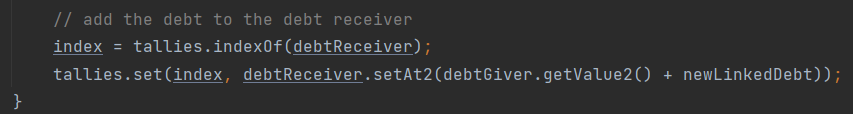
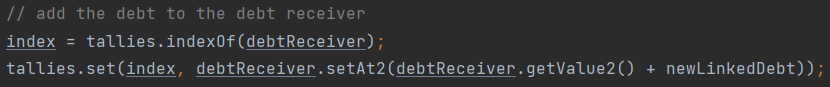
Debug Complete

diff --git a/MoneyTracker/src/test/java/calculator/IntegrationTest_Tallies.java b/MoneyTracker/src/test/java/calculator/IntegrationTest_Tallies.java
@@ -64,72 +64,7 @@ public class IntegrationTest_Tallies {
     }
 
     @Test
-    public void testTreeTallies() {
-        //Create 3 persons
-        List<IPerson> personList = createPersons(3);
-
-        //Add to database
-        PersonController personController = new PersonController(PersonDB.getInstance());
-        personList.forEach(personController::addValue);
-
-        //Create tickets
-        List<ITicket> ticketList = new ArrayList<>();
-        ITicketFactory ticketFactory = new DinnerTicketFactory();
-        TicketController ticketController = new TicketController(TicketDB.getInstance());
-
-        //Create depth with dinner and uniform between 1 -> 0 for € 10.0
-        //0 (A) pays €20 for 1 (B)
-        HashMap<Integer, Double> debts = new HashMap<>();
-        debts.put(personController.getIdByName(personList.get(0).toString()), 10.0);
-        ITicket ticket = ticketFactory.getUniformTicket(personController.getIdByName(personList.get(1).toString()), debts);
-        ticketList.add(ticket);
-
-        //Create depth with dinner and uniform between 0 -> 1 for € 5.0
-        //1 (B) pays €10 for 0 (A)
-        debts = new HashMap<>();
-        debts.put(personController.getIdByName(personList.get(1).toString()), 5.0);
-        ticket = ticketFactory.getUniformTicket(personController.getIdByName(personList.get(0).toString()), debts);
-        ticketList.add(ticket);
-
-        //Create depth with dinner and uniform between 1 -> 2 for € 10.0
-        //1 (B) pays €30 for 2 (C)
-        debts = new HashMap<>();
-        //Het klopt nog niet helemaal
-        debts.put(personController.getIdByName(personList.get(2).toString()), 10.0);
-        ticket = ticketFactory.getUniformTicket(personController.getIdByName(personList.get(1).toString()), debts);
-        ticketList.add(ticket);
-
-
-        //Create depth with dinner and uniform between 0 -> 2 for € 10.0
-        //1 (B) pays €30 for 2 (C)
-        debts = new HashMap<>();
-        //Het klopt nog niet helemaal
-        debts.put(personController.getIdByName(personList.get(2).toString()), 10.0);
-        ticket = ticketFactory.getUniformTicket(personController.getIdByName(personList.get(0).toString()), debts);
-        ticketList.add(ticket);
-
-        //save to the database
-        ticketList.forEach(ticketController::addValue);
-
-
-        //Calculate the tallies. It should be 0 -> 1 with 10.0
-        List<Triplet<Integer, Integer, Double>> tallies = Calculator.CalculateTallyPairs();
-        Calculator.PrintTallies(tallies);
-        tallies = Calculator.CalculateFinalTallies(tallies);
-        Calculator.PrintTallies(tallies);
-
-        /*assertEquals(tallies.get(0).getValue0(), personController.getIdByName(personList.get(0).toString()));
-        assertEquals(tallies.get(0).getValue1(), personController.getIdByName(personList.get(1).toString()));
-        assertEquals(tallies.get(0).getValue2(), 10.0);
-
-        //AND 1 -> 2 with 30?
-        //TODO Tom kijk dit eens na
-        assertEquals(tallies.get(1).getValue0(), personController.getIdByName(personList.get(1).toString()));
-        assertEquals(tallies.get(1).getValue1(), personController.getIdByName(personList.get(2).toString()));
-        assertEquals(tallies.get(1).getValue2(), 30.0);*/
-    }
-
-    public void testTallies2(){
+    public void testTreeTallies(){
         //Create 3 persons
         List<IPerson> personList = createPersons(3);
 
@@ -215,7 +150,8 @@ public class IntegrationTest_Tallies {
         */
     }
 
-    public void testTallies(){
+    @Test
+    public void testTallies() {
         //Create 3 persons
         List<IPerson> personList = createPersons(3);
 
@@ -228,87 +164,56 @@ public class IntegrationTest_Tallies {
         ITicketFactory ticketFactory = new DinnerTicketFactory();
         TicketController ticketController = new TicketController(TicketDB.getInstance());
 
-        //Create depth with dinner and uniform between 0 -> 1 for € 10.0
+        //Create depth with dinner and uniform between 1 -> 0 for € 10.0
         //0 (A) pays €20 for 1 (B)
         HashMap<Integer, Double> debts = new HashMap<>();
-        debts.put(personController.getIdByName(personList.get(1).toString()), 10.0);
-        ITicket ticket = ticketFactory.getUniformTicket(personController.getIdByName(personList.get(0).toString()), debts);
+        debts.put(personController.getIdByName(personList.get(0).toString()), 10.0);
+        ITicket ticket = ticketFactory.getUniformTicket(personController.getIdByName(personList.get(1).toString()), debts);
         ticketList.add(ticket);
 
-        //Create depth with dinner and uniform between 1 -> 0 for € 5.0
+        //Create depth with dinner and uniform between 0 -> 1 for € 5.0
         //1 (B) pays €10 for 0 (A)
         debts = new HashMap<>();
-        debts.put(personController.getIdByName(personList.get(0).toString()), 5.0);
+        debts.put(personController.getIdByName(personList.get(1).toString()), 5.0);
+        ticket = ticketFactory.getUniformTicket(personController.getIdByName(personList.get(0).toString()), debts);
+        ticketList.add(ticket);
+
+        //Create depth with dinner and uniform between 1 -> 2 for € 10.0
+        //1 (B) pays €30 for 2 (C)
+        debts = new HashMap<>();
+        //Het klopt nog niet helemaal
+        debts.put(personController.getIdByName(personList.get(2).toString()), 10.0);
         ticket = ticketFactory.getUniformTicket(personController.getIdByName(personList.get(1).toString()), debts);
         ticketList.add(ticket);
 
-        //Create depth with dinner and uniform between 2 -> 1 for € 10.0
+
+        //Create depth with dinner and uniform between 0 -> 2 for € 10.0
         //1 (B) pays €30 for 2 (C)
         debts = new HashMap<>();
         //Het klopt nog niet helemaal
-        debts.put(personController.getIdByName(personList.get(1).toString()), 10.0);
-        ticket = ticketFactory.getUniformTicket(personController.getIdByName(personList.get(2).toString()), debts);
-        ticketList.add(ticket);
-
-
-        //Create depth with dinner and uniform between 2 -> 0 for € 10.0
-        //1 (B) pays €30 for 2 (C)
-        debts = new HashMap<>();
-        //Het klopt nog niet helemaal
-        debts.put(personController.getIdByName(personList.get(0).toString()), 10.0);
-        ticket = ticketFactory.getUniformTicket(personController.getIdByName(personList.get(2).toString()), debts);
+        debts.put(personController.getIdByName(personList.get(2).toString()), 10.0);
+        ticket = ticketFactory.getUniformTicket(personController.getIdByName(personList.get(0).toString()), debts);
         ticketList.add(ticket);
 
         //save to the database
         ticketList.forEach(ticketController::addValue);
 
-        //Calculate the tallies.
+
+        //Calculate the tallies. It should be 0 -> 1 with 10.0
         List<Triplet<Integer, Integer, Double>> tallies = Calculator.CalculateTallyPairs();
         Calculator.PrintTallies(tallies);
-
-        //It should be 1 -> 2 with 30.0
-        if ((personController.getNameById(tallies.get(0).getValue0()).equalsIgnoreCase("A") &&
-                personController.getNameById(tallies.get(0).getValue1()).equalsIgnoreCase("B"))) {
-            assertEquals(tallies.get(0).getValue2(), 10.0);
-        } else if ((personController.getNameById(tallies.get(1).getValue0()).equalsIgnoreCase("A") &&
-                personController.getNameById(tallies.get(1).getValue1()).equalsIgnoreCase("B"))) {
-            assertEquals(tallies.get(1).getValue2(), 10.0);
-        }
-
-        //AND 0 -> 1 with 10?
-        if (personController.getNameById(tallies.get(0).getValue0()).equalsIgnoreCase("B") &&
-                personController.getNameById(tallies.get(0).getValue1()).equalsIgnoreCase("C")) {
-            assertEquals(tallies.get(0).getValue2(), 30.0);
-        } else if (personController.getNameById(tallies.get(1).getValue0()).equalsIgnoreCase("B") &&
-                personController.getNameById(tallies.get(1).getValue1()).equalsIgnoreCase("C")) {
-            assertEquals(tallies.get(1).getValue2(), 30.0);
-        }
-
-        //Calculate again to make it less complex
-        //TODO De 1ne keer geeft die wel een minder complexe oplossing en de andere keer niet. Is dit plaats afhankelijk?
         tallies = Calculator.CalculateFinalTallies(tallies);
         Calculator.PrintTallies(tallies);
 
-        //Staat in commentaar om geen error te geven
-        /*
-        //It should be 0 -> 1 with 10.0
-        if ((personController.getNameById(tallies.get(0).getValue0()).equalsIgnoreCase("A") &&
-                personController.getNameById(tallies.get(0).getValue1()).equalsIgnoreCase("B"))) {
-            assertEquals(tallies.get(0).getValue2(), 10.0);
-        } else if ((personController.getNameById(tallies.get(1).getValue0()).equalsIgnoreCase("A") &&
-                personController.getNameById(tallies.get(1).getValue1()).equalsIgnoreCase("B"))) {
-            assertEquals(tallies.get(1).getValue2(), 10.0);
-        }
+        /*assertEquals(tallies.get(0).getValue0(), personController.getIdByName(personList.get(0).toString()));
+        assertEquals(tallies.get(0).getValue1(), personController.getIdByName(personList.get(1).toString()));
+        assertEquals(tallies.get(0).getValue2(), 10.0);
 
-        //It should be 1 -> 2 with 20.0
-        if ((personController.getNameById(tallies.get(0).getValue0()).equalsIgnoreCase("B") &&
-                personController.getNameById(tallies.get(0).getValue1()).equalsIgnoreCase("C"))) {
-            assertEquals(tallies.get(0).getValue2(), 20.0);
-        } else if ((personController.getNameById(tallies.get(1).getValue0()).equalsIgnoreCase("B") &&
-                personController.getNameById(tallies.get(1).getValue1()).equalsIgnoreCase("C"))) {
-            assertEquals(tallies.get(1).getValue2(), 20.0);
-        }
-        */
+        //AND 1 -> 2 with 30?
+        //TODO Tom kijk dit eens na
+        assertEquals(tallies.get(1).getValue0(), personController.getIdByName(personList.get(1).toString()));
+        assertEquals(tallies.get(1).getValue1(), personController.getIdByName(personList.get(2).toString()));
+        assertEquals(tallies.get(1).getValue2(), 30.0);*/
     }
 
     private List<IPerson> createPersons(int amount) {

diff --git a/MoneyTracker/src/main/java/calculator/Calculator.java b/MoneyTracker/src/main/java/calculator/Calculator.java
@@ -249,7 +249,7 @@ public class Calculator {
 
             // add the debt to the debt receiver
             index = tallies.indexOf(debtReceiver);
-            tallies.set(index, debtReceiver.setAt2(debtGiver.getValue2() + newLinkedDebt));
+            tallies.set(index, debtReceiver.setAt2(debtReceiver.getValue2() + newLinkedDebt));
         }
 
         while (tallies.stream().filter(tally -> tally.getValue2() == 0.0).findFirst().orElse(null) != null){
